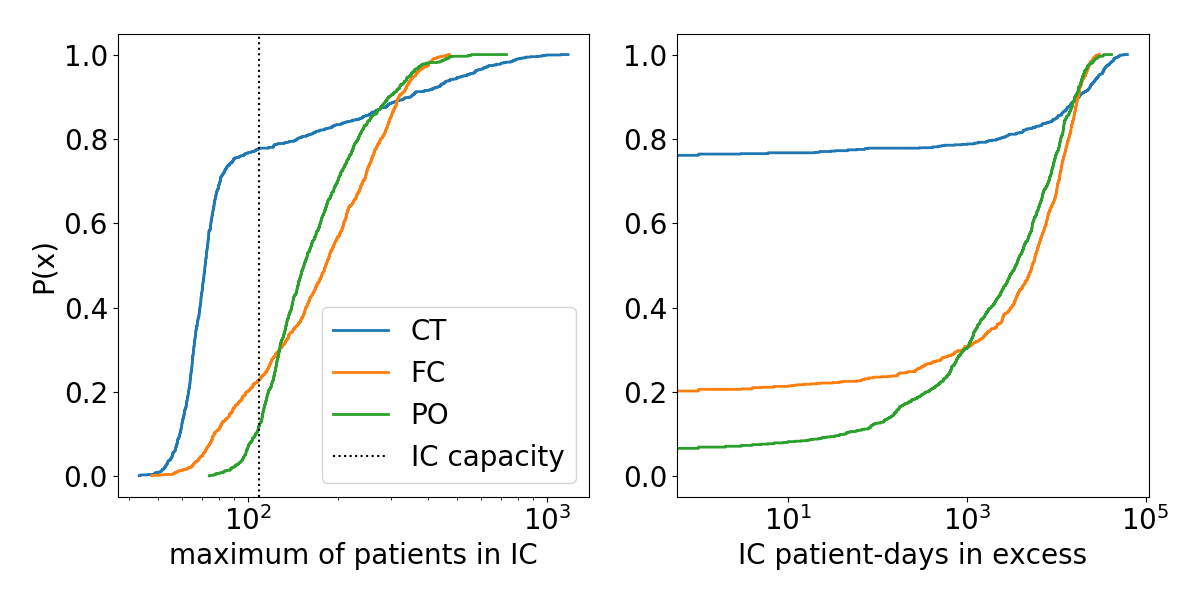
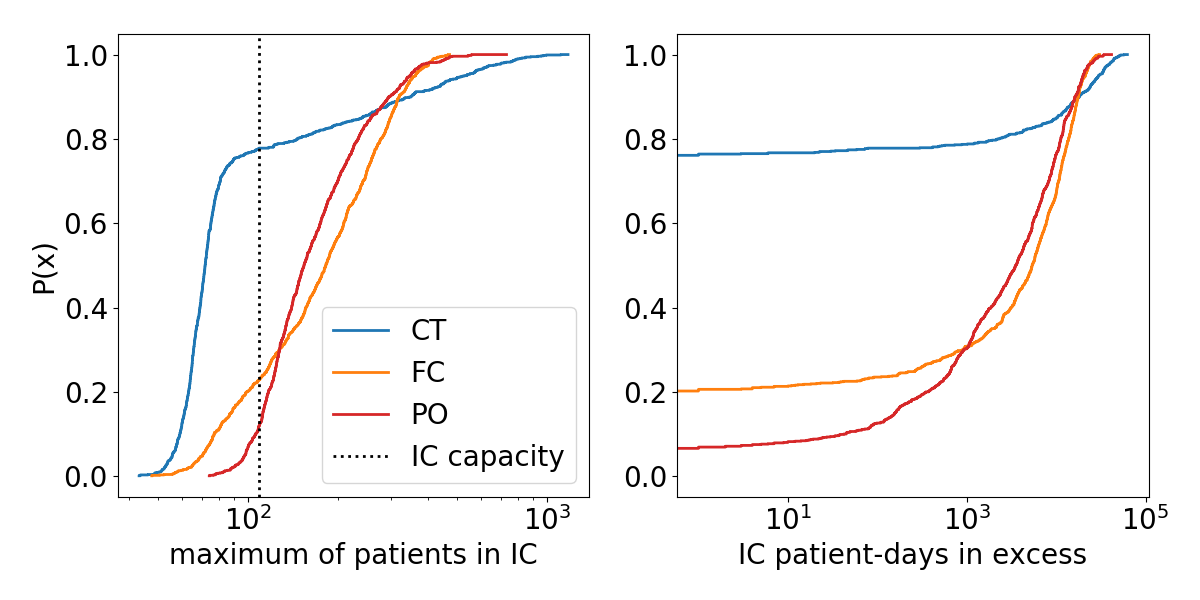
change color for PO

diff --git a/EasyVVUQ/cdfs_nobio.py b/EasyVVUQ/cdfs_nobio.py
@@ -122,8 +122,8 @@ ax_p = f.add_subplot(121, xlabel='maximum of patients in IC', ylabel='P(x)')
 # without biology
 ax_p.step(CT_IC_prev_avg_max,p,lw=2,label='CT')
 ax_p.step(FC_IC_prev_avg_max,p,lw=2,label='FC')
-ax_p.step(PO_IC_prev_avg_max,p,lw=2,label='PO')
-ax_p.axvline(x=IC_capacity,linestyle=':',color='black',label='IC capacity')
+ax_p.step(PO_IC_prev_avg_max,p,lw=2,color='tab:red',label='PO')
+ax_p.axvline(x=IC_capacity,lw=2,linestyle=':',color='black',label='IC capacity')
 # general settings
 ax_p.set_xscale('log')
 # ax_p.set_xticks([3e2, 1e3])
@@ -134,7 +134,7 @@ ax_e = f.add_subplot(122, xlabel='IC patient-days in excess')
 # without biology
 ax_e.step(CT_IC_ex_max,p,lw=2)
 ax_e.step(FC_IC_ex_max,p,lw=2)
-ax_e.step(PO_IC_ex_max,p,lw=2)
+ax_e.step(PO_IC_ex_max,p,lw=2,color='tab:red')
 # general settings
 ax_e.set_xscale('log')
 # ax_e.set_xticks([1e4, 6e4])
